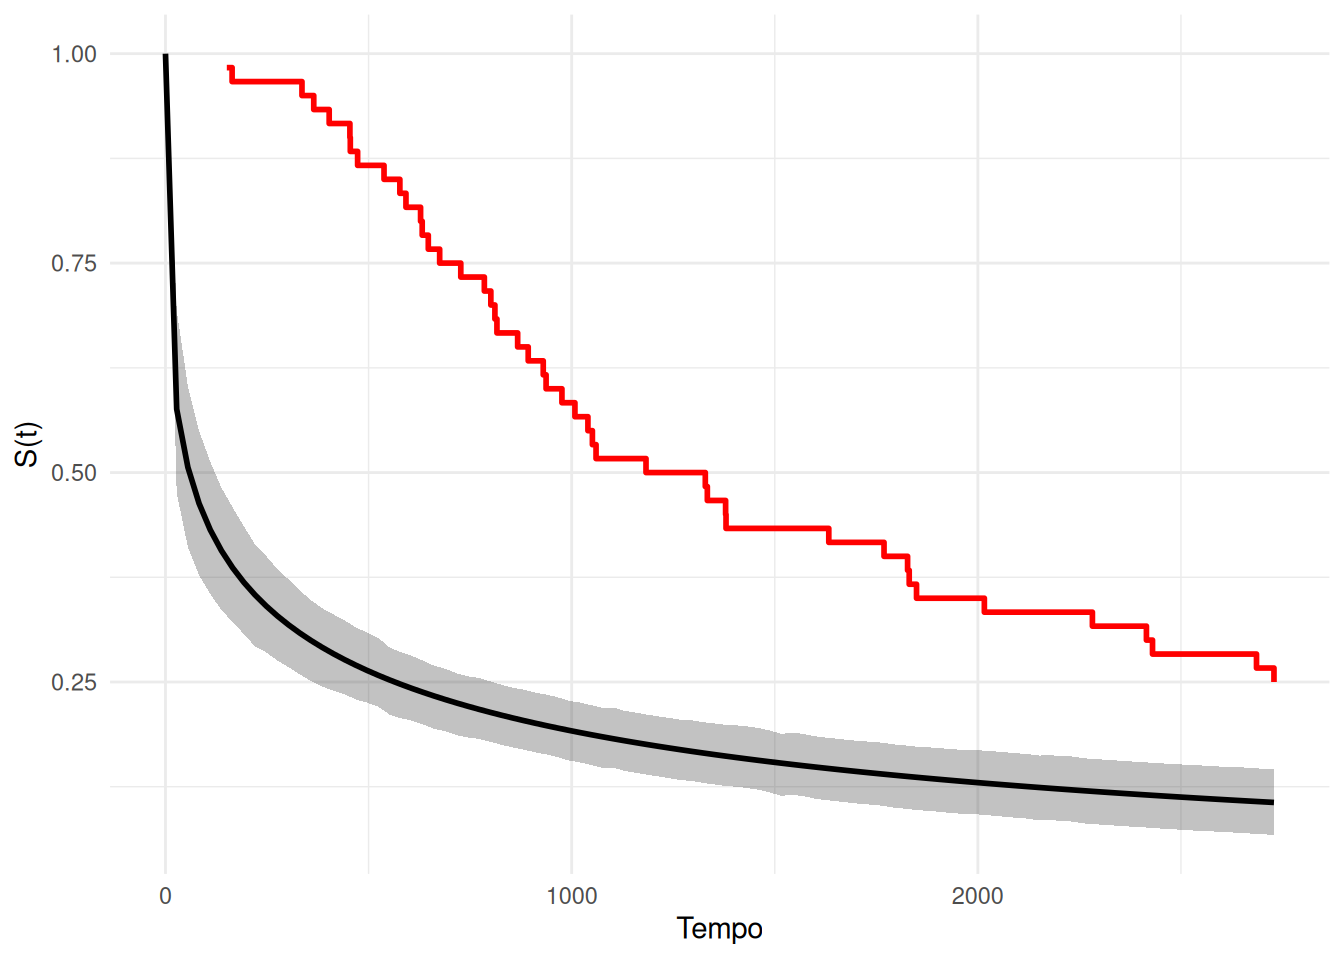
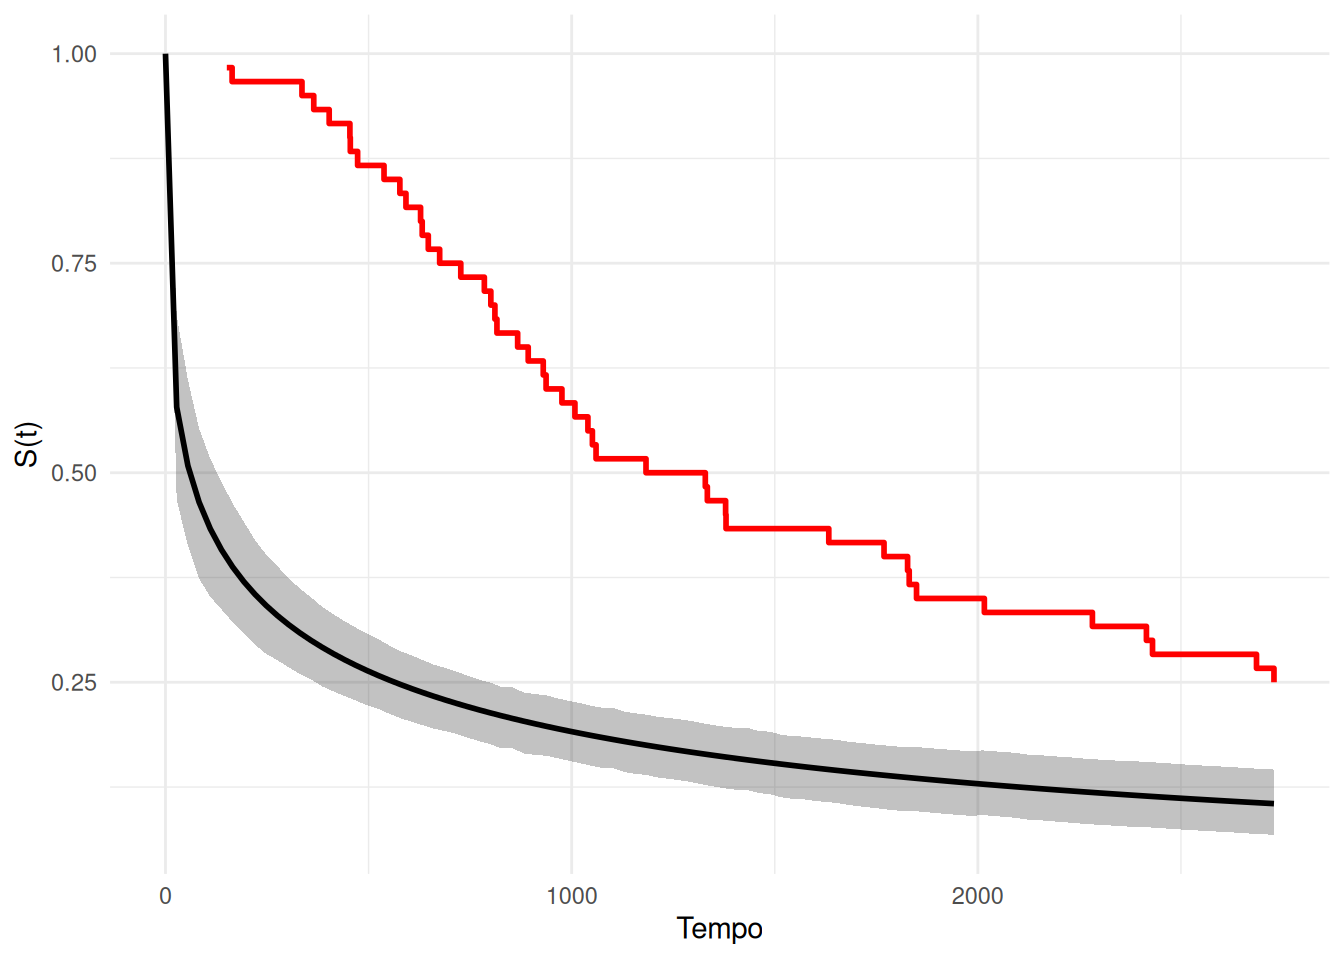
Built site for gh-pages

Changed region(s): [[0.7188, 0.8125, 0.9375, 0.8438], [0.5312, 0.7812, 0.6562, 0.8125], [0.4375, 0.75, 0.4688, 0.7812]]

diff --git a/models.html b/models.html
@@ -495,7 +495,7 @@ fit_GLM = rstan::sampling(mod_GLM, data = data_GLM)
 </div>
 <p>O modelo é especificado da seguinte forma:</p>
 <p><span class="math display">\[Y_i \sim \text{Poisson}(\mu_i)\]</span></p>
-<p><span class="math display">\[\log(\mu_i) = \log(n_i) + \beta_0 + \beta_{\text{idade}[i]} + \gamma_{\text{cidade}[i]}\]</span></p>
+<p><span class="math display">\[\log(\mu_i) = \log(n_i) + \beta_0 + \beta_{\text{age}[i]} + \beta_{\text{city}[i]}\]</span></p>
 <p>Para todos os coeficientes do preditor linear foi adotada a mesma priori vaga: <span class="math inline">\(\beta_i \sim N(0,10)\)</span>.</p>
 <div class="code-copy-outer-scaffold"><div class="sourceCode" id="cb2"><pre class="sourceCode stan code-with-copy"><code class="sourceCode stan"><span id="cb2-1"><a href="#cb2-1" aria-hidden="true" tabindex="-1"></a><span class="kw">data</span> {</span>
 <span id="cb2-2"><a href="#cb2-2" aria-hidden="true" tabindex="-1"></a>  <span class="dt">int</span>&lt;<span class="kw">lower</span>=<span class="dv">1</span>&gt; n;</span>
@@ -782,8 +782,8 @@ Chain 1: Iteration: 1001 / 2000 [ 50%]  (Sampling)</code></pre>
 <pre><code>
 SAMPLING FOR MODEL 'surv_weib' NOW (CHAIN 1).
 Chain 1: 
-Chain 1: Gradient evaluation took 1.1e-05 seconds
-Chain 1: 1000 transitions using 10 leapfrog steps per transition would take 0.11 seconds.
+Chain 1: Gradient evaluation took 1e-05 seconds
+Chain 1: 1000 transitions using 10 leapfrog steps per transition would take 0.1 seconds.
 Chain 1: Adjust your expectations accordingly!
 Chain 1: 
 Chain 1: 
@@ -842,24 +842,24 @@ $lp__
 <div class="cell-output cell-output-stdout">
 <pre><code>$alpha
          media  mediana   hpd_min   hpd_max
-[1,] 0.3076674 0.303284 0.2146824 0.4189463
+[1,] 0.3103742 0.306533 0.2182022 0.4159945
 
 $sigma
         media mediana  hpd_min  hpd_max
-[1,] 195.5883 189.809 91.63133 305.9038
+[1,] 197.4404 191.309 94.22619 312.3663
 
 $S
          media   mediana   hpd_min   hpd_max
 [1,] 1.0000000 1.0000000 1.0000000 1.0000000
-[2,] 0.5757395 0.5729546 0.4756732 0.6937362
-[3,] 0.5062755 0.5028072 0.4109795 0.6031665
-[4,] 0.4630745 0.4595308 0.3771913 0.5498084
-[5,] 0.4315437 0.4278907 0.3551371 0.5127364
-[6,] 0.4067175 0.4033479 0.3356832 0.4818058
+[2,] 0.5782794 0.5751835 0.4673560 0.6873508
+[3,] 0.5084089 0.5046141 0.4134467 0.6109048
+[4,] 0.4649055 0.4609336 0.3736235 0.5528048
+[5,] 0.4331340 0.4291061 0.3519409 0.5165523
+[6,] 0.4081083 0.4042330 0.3369573 0.4891514
 
 $lp__
-         media   mediana   hpd_min   hpd_max
-[1,] -465.8611 -465.5799 -467.8909 -464.8251</code></pre>
+        media   mediana   hpd_min   hpd_max
+[1,] -465.836 -465.5263 -467.8494 -464.8247</code></pre>
 </div>
 </div>
 <div class="cell">
@@ -1207,8 +1207,8 @@ $lp__
 <pre><code>
 SAMPLING FOR MODEL 'FA' NOW (CHAIN 1).
 Chain 1: 
-Chain 1: Gradient evaluation took 4.8e-05 seconds
-Chain 1: 1000 transitions using 10 leapfrog steps per transition would take 0.48 seconds.
+Chain 1: Gradient evaluation took 4.1e-05 seconds
+Chain 1: 1000 transitions using 10 leapfrog steps per transition would take 0.41 seconds.
 Chain 1: Adjust your expectations accordingly!
 Chain 1: 
 Chain 1: 

diff --git a/pred.html b/pred.html
@@ -225,7 +225,7 @@ div.csl-indent {
 
 
 <blockquote class="blockquote">
-<p>Bayesian models are generative, meaning they can be used to simulate observations just as well as they can be used to estimate parameters. One benefit of this fact is that a statistical model can be developed by thinking hard about how the data might have arisen.”</p>
+<p>“Bayesian models are generative, meaning they can be used to simulate observations just as well as they can be used to estimate parameters. One benefit of this fact is that a statistical model can be developed by thinking hard about how the data might have arisen.”</p>
 <p>— Richard McElreath, <em>Statistical Rethinking: A Bayesian Course with Examples in R and Stan</em> (2020)</p>
 </blockquote>
 <section id="predições-no-stan" class="level2" data-number="4.1">
@@ -529,8 +529,8 @@ Chain 1: Iteration: 1001 / 2000 [ 50%]  (Sampling)</code></pre>
 <pre><code>
 SAMPLING FOR MODEL 'FA_pred' NOW (CHAIN 1).
 Chain 1: 
-Chain 1: Gradient evaluation took 5.4e-05 seconds
-Chain 1: 1000 transitions using 10 leapfrog steps per transition would take 0.54 seconds.
+Chain 1: Gradient evaluation took 5.6e-05 seconds
+Chain 1: 1000 transitions using 10 leapfrog steps per transition would take 0.56 seconds.
 Chain 1: Adjust your expectations accordingly!
 Chain 1: 
 Chain 1: 
